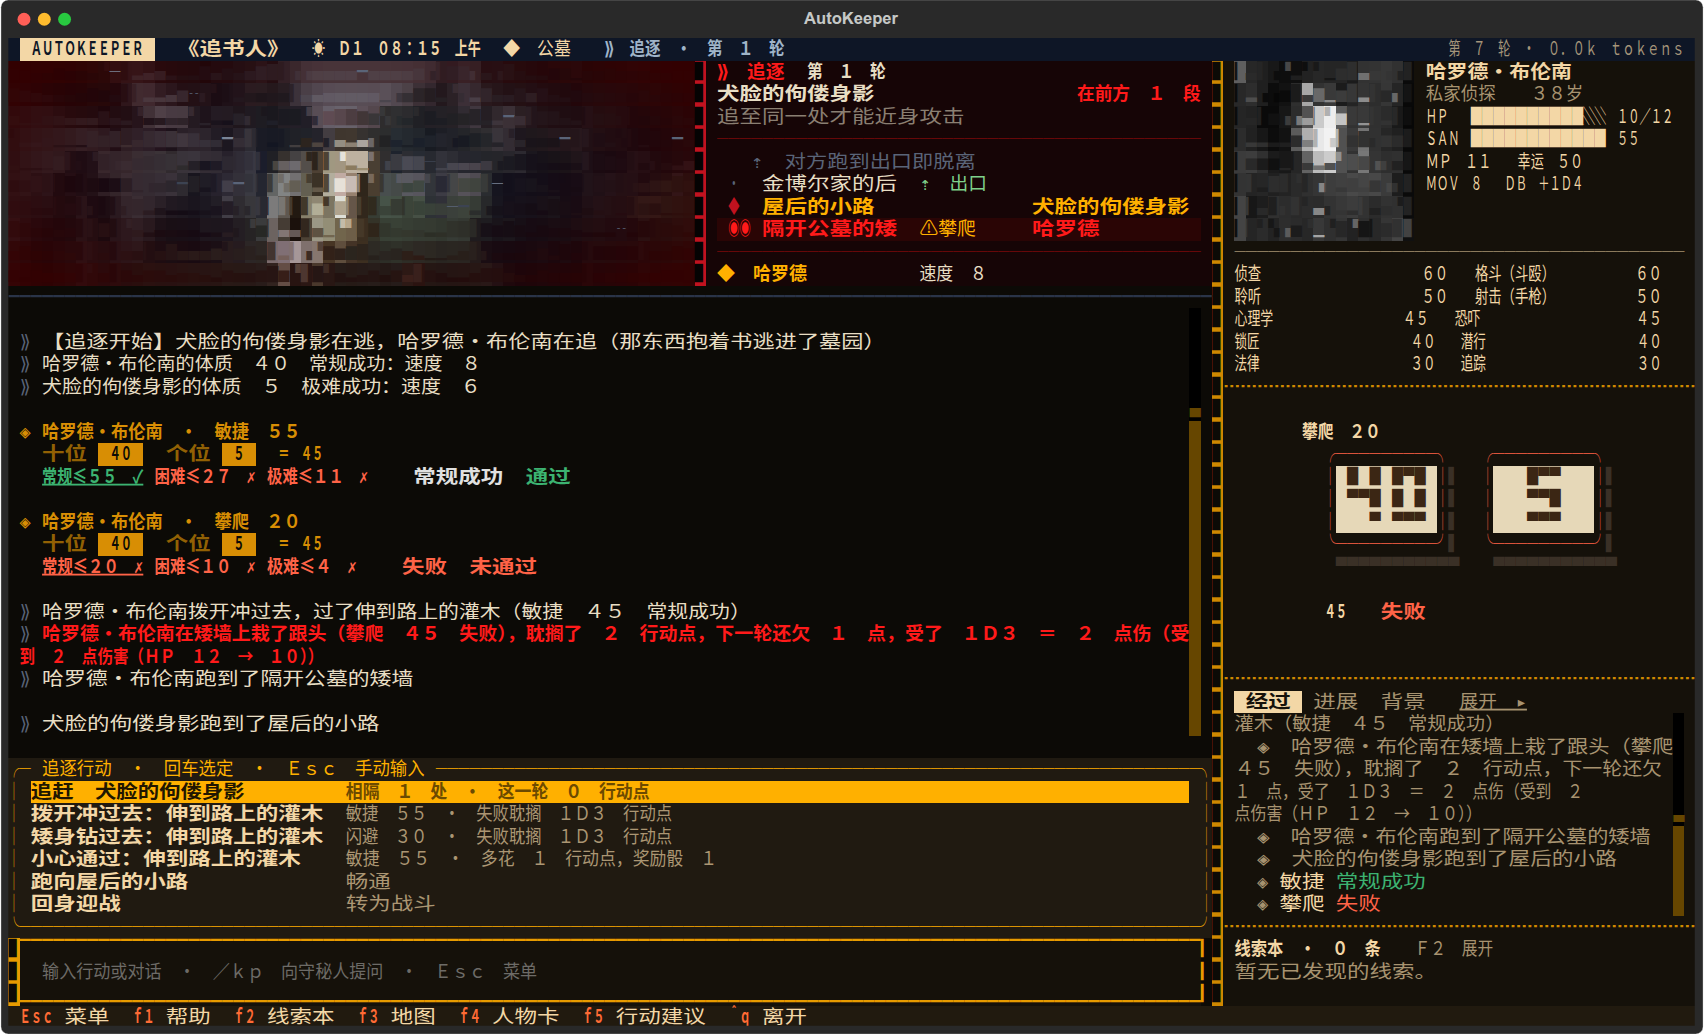
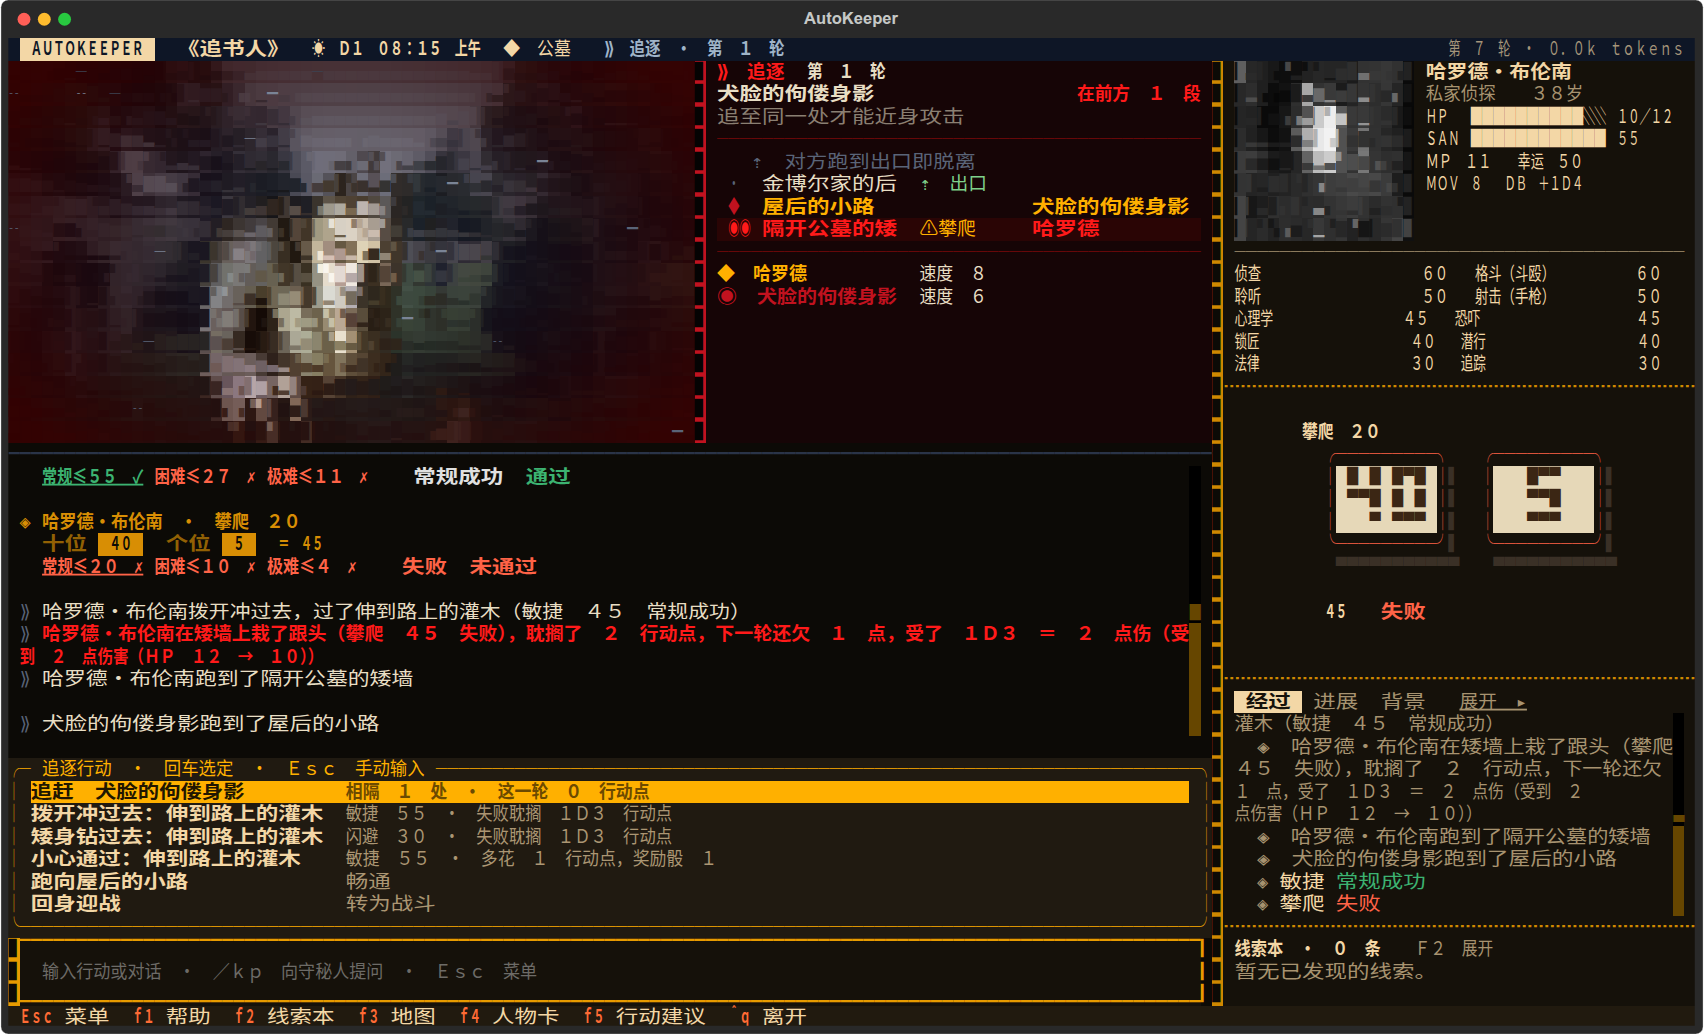
界面：战斗与追逐时舞台更高，故事区约占三成、至少 8 行，选单 5–8 行；重拍战斗与追逐截图

Changed region(s): [[0.0, 0.0619, 0.591, 0.4642], [0.6843, 0.4023, 0.7154, 0.588]]

diff --git a/src/autokeeper/tui/screens/game.py b/src/autokeeper/tui/screens/game.py
@@ -117,7 +117,8 @@ BATTLE_SECONDS, CHASE_SECONDS = 20.0, 12.0  # how long a fight's and a chase's r
 FIGHT_EVENTS = ("fight_start", "reveal", "fight_round", "fight_act", "fight_state", "fight_say", "fight_end",
                 "chase_start", "chase_round", "chase_state", "chase_end")
 PAGES_MIN = 4  # the history's head and three lines; it opens in full with Ctrl+G
-STORY_SHARE, STORY_MIN = 0.38, 8  # what the story keeps under a fight's or a chase's stage, the round's list open
+STORY_SHARE, STORY_MIN = 0.28, 8  # what the story keeps under a fight's or a chase's stage, the round's list open
+PICKER_ROWS = (5, 8)  # the round's list, scrolling past that: the stage keeps the rest (13 rows of 36)
 RISK_WORDS = {2: "可能被击倒", 3: "可能致命"}  # beside the answer to blows: how bad the worst blow in sight could be
 
 
@@ -1042,15 +1043,16 @@ class GameScreen(Screen):
         """A fight's or a chase's stage and the round's list over the box, in rows: what is left once the
         top bar, the footer, the status line and the input box have theirs (at a LAN table its turn
         line, with F12 the developer panel) and the story its share to read in (STORY_SHARE of the
-        screen, STORY_MIN rows at least: 14 of 36, 11 of 30). The list takes half the rest, 5 to 10
-        rows, and scrolls past that; the stage the remainder, 4 rows at least, so on a short terminal
-        the box stays on the screen (80x24 left the story one row and the box below the bottom)."""
+        screen, STORY_MIN rows at least: 10 of 36, 8 of 30). The list takes a third of the rest, PICKER_ROWS,
+        and scrolls past that; the stage the remainder, 4 rows at least, so on a short terminal the box
+        stays on the screen (80x24 left the story one row and the box below the bottom). The user, 2026-10-22:
+        the stage of a fight or a chase wants more room than the review's first share gave it (8 rows of 36)."""
         height = self.app.size.height
         fixed = 2 + 1 + 3 + 1 + len(self.query("#turnline"))  # bars, status, box, the stage's edge; LAN's turn line
         fixed += sum(9 for panel in self.query(DevPanel) if panel.display)
         rest = height - fixed
         story = max(0, min(max(STORY_MIN, round(height * STORY_SHARE)), rest - 9))
-        picker = max(5, min(10, (rest - story) // 2))
+        picker = max(PICKER_ROWS[0], min(PICKER_ROWS[1], (rest - story) // 3))
         return max(4, min(32, rest - story - picker)), picker
 
     def _fit_stage(self) -> None:

diff --git a/tests/test_fight.py b/tests/test_fight.py
@@ -781,7 +781,9 @@ async def test_the_story_keeps_room_to_read_and_ctrl_n_folds_the_stage_then_the_
         assert await until(pilot, lambda: picker.display)
         await pilot.pause(0.3)
         _all_on_screen(screen, size[1])
-        assert story.region.height >= max(8, round(size[1] * 0.36)), (story.region, size)
+        assert story.region.height >= max(8, round(size[1] * 0.28)), (story.region, size)
+        # the user, 2026-10-22: the fight's stage wants room too, more than the story's share
+        assert screen.query_one(Arena).region.height >= {30: 10, 36: 13}[size[1]], (screen.query_one(Arena).region, size)
         assert screen.query_one(Arena).region.height >= 4 and picker.region.height >= 5
         rows = [picker.get_option_at_index(i).prompt for i in range(picker.option_count)]
         assert all(r.no_wrap and r.overflow == "ellipsis" for r in rows)  # one row each, never wrapped
